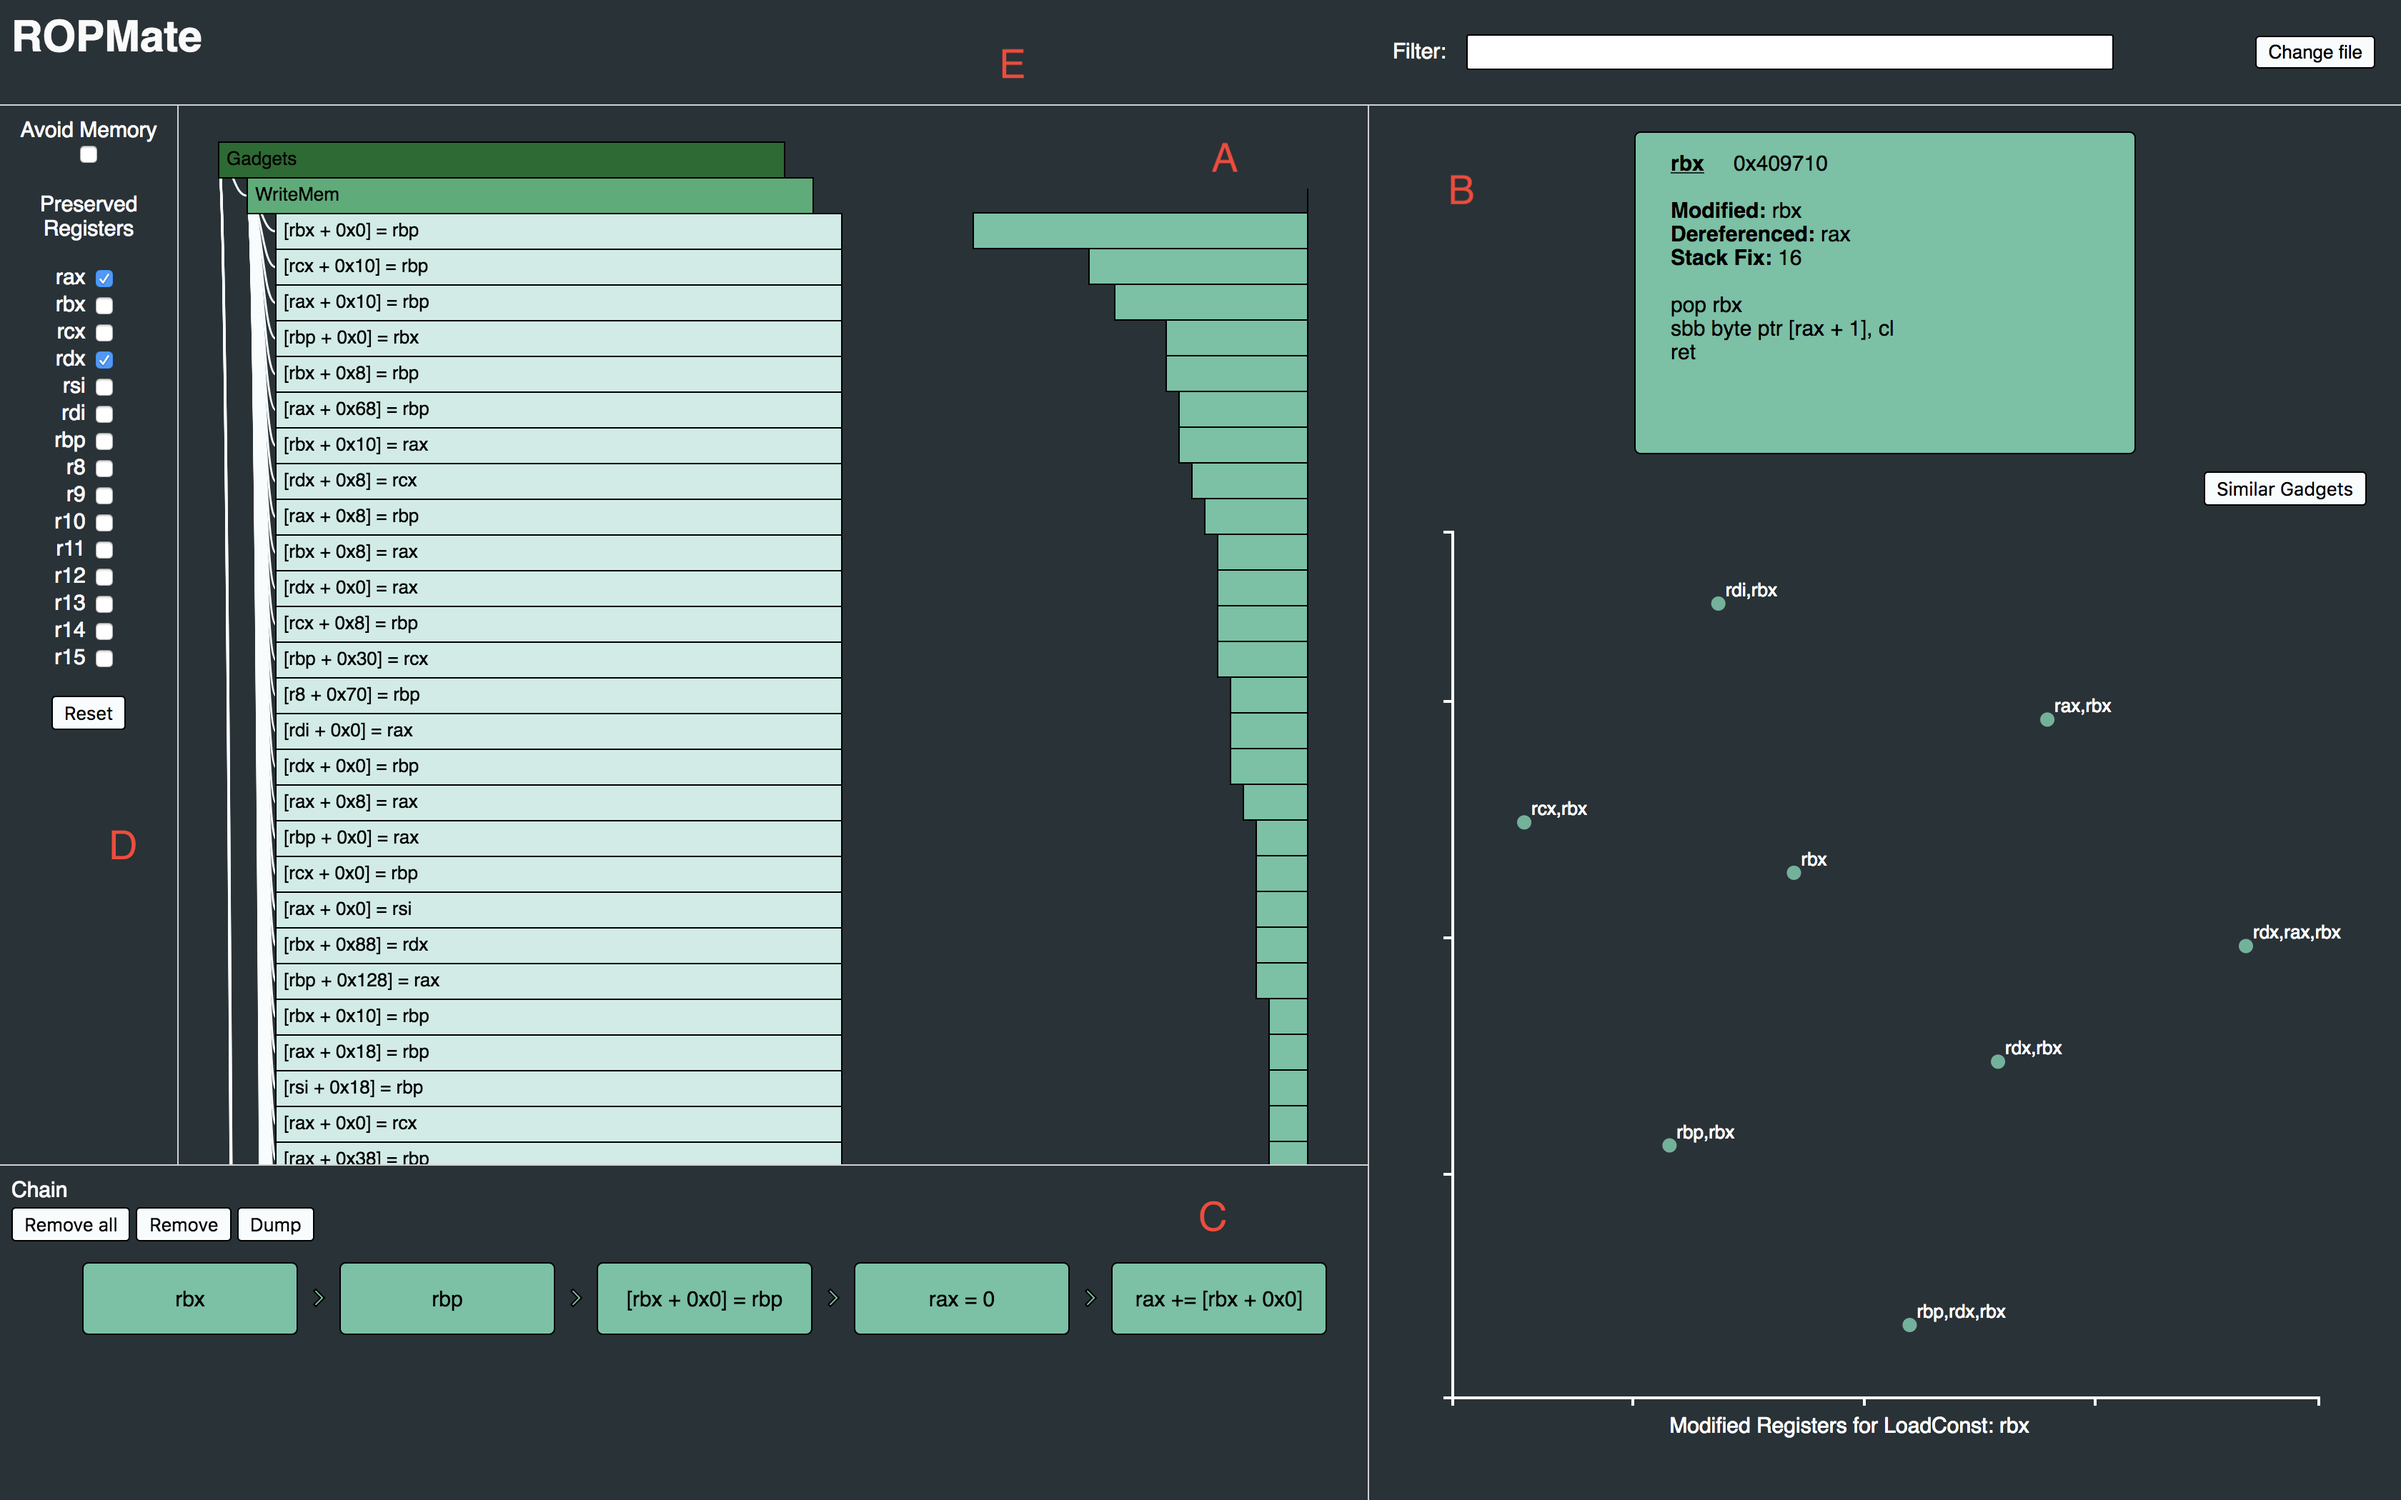
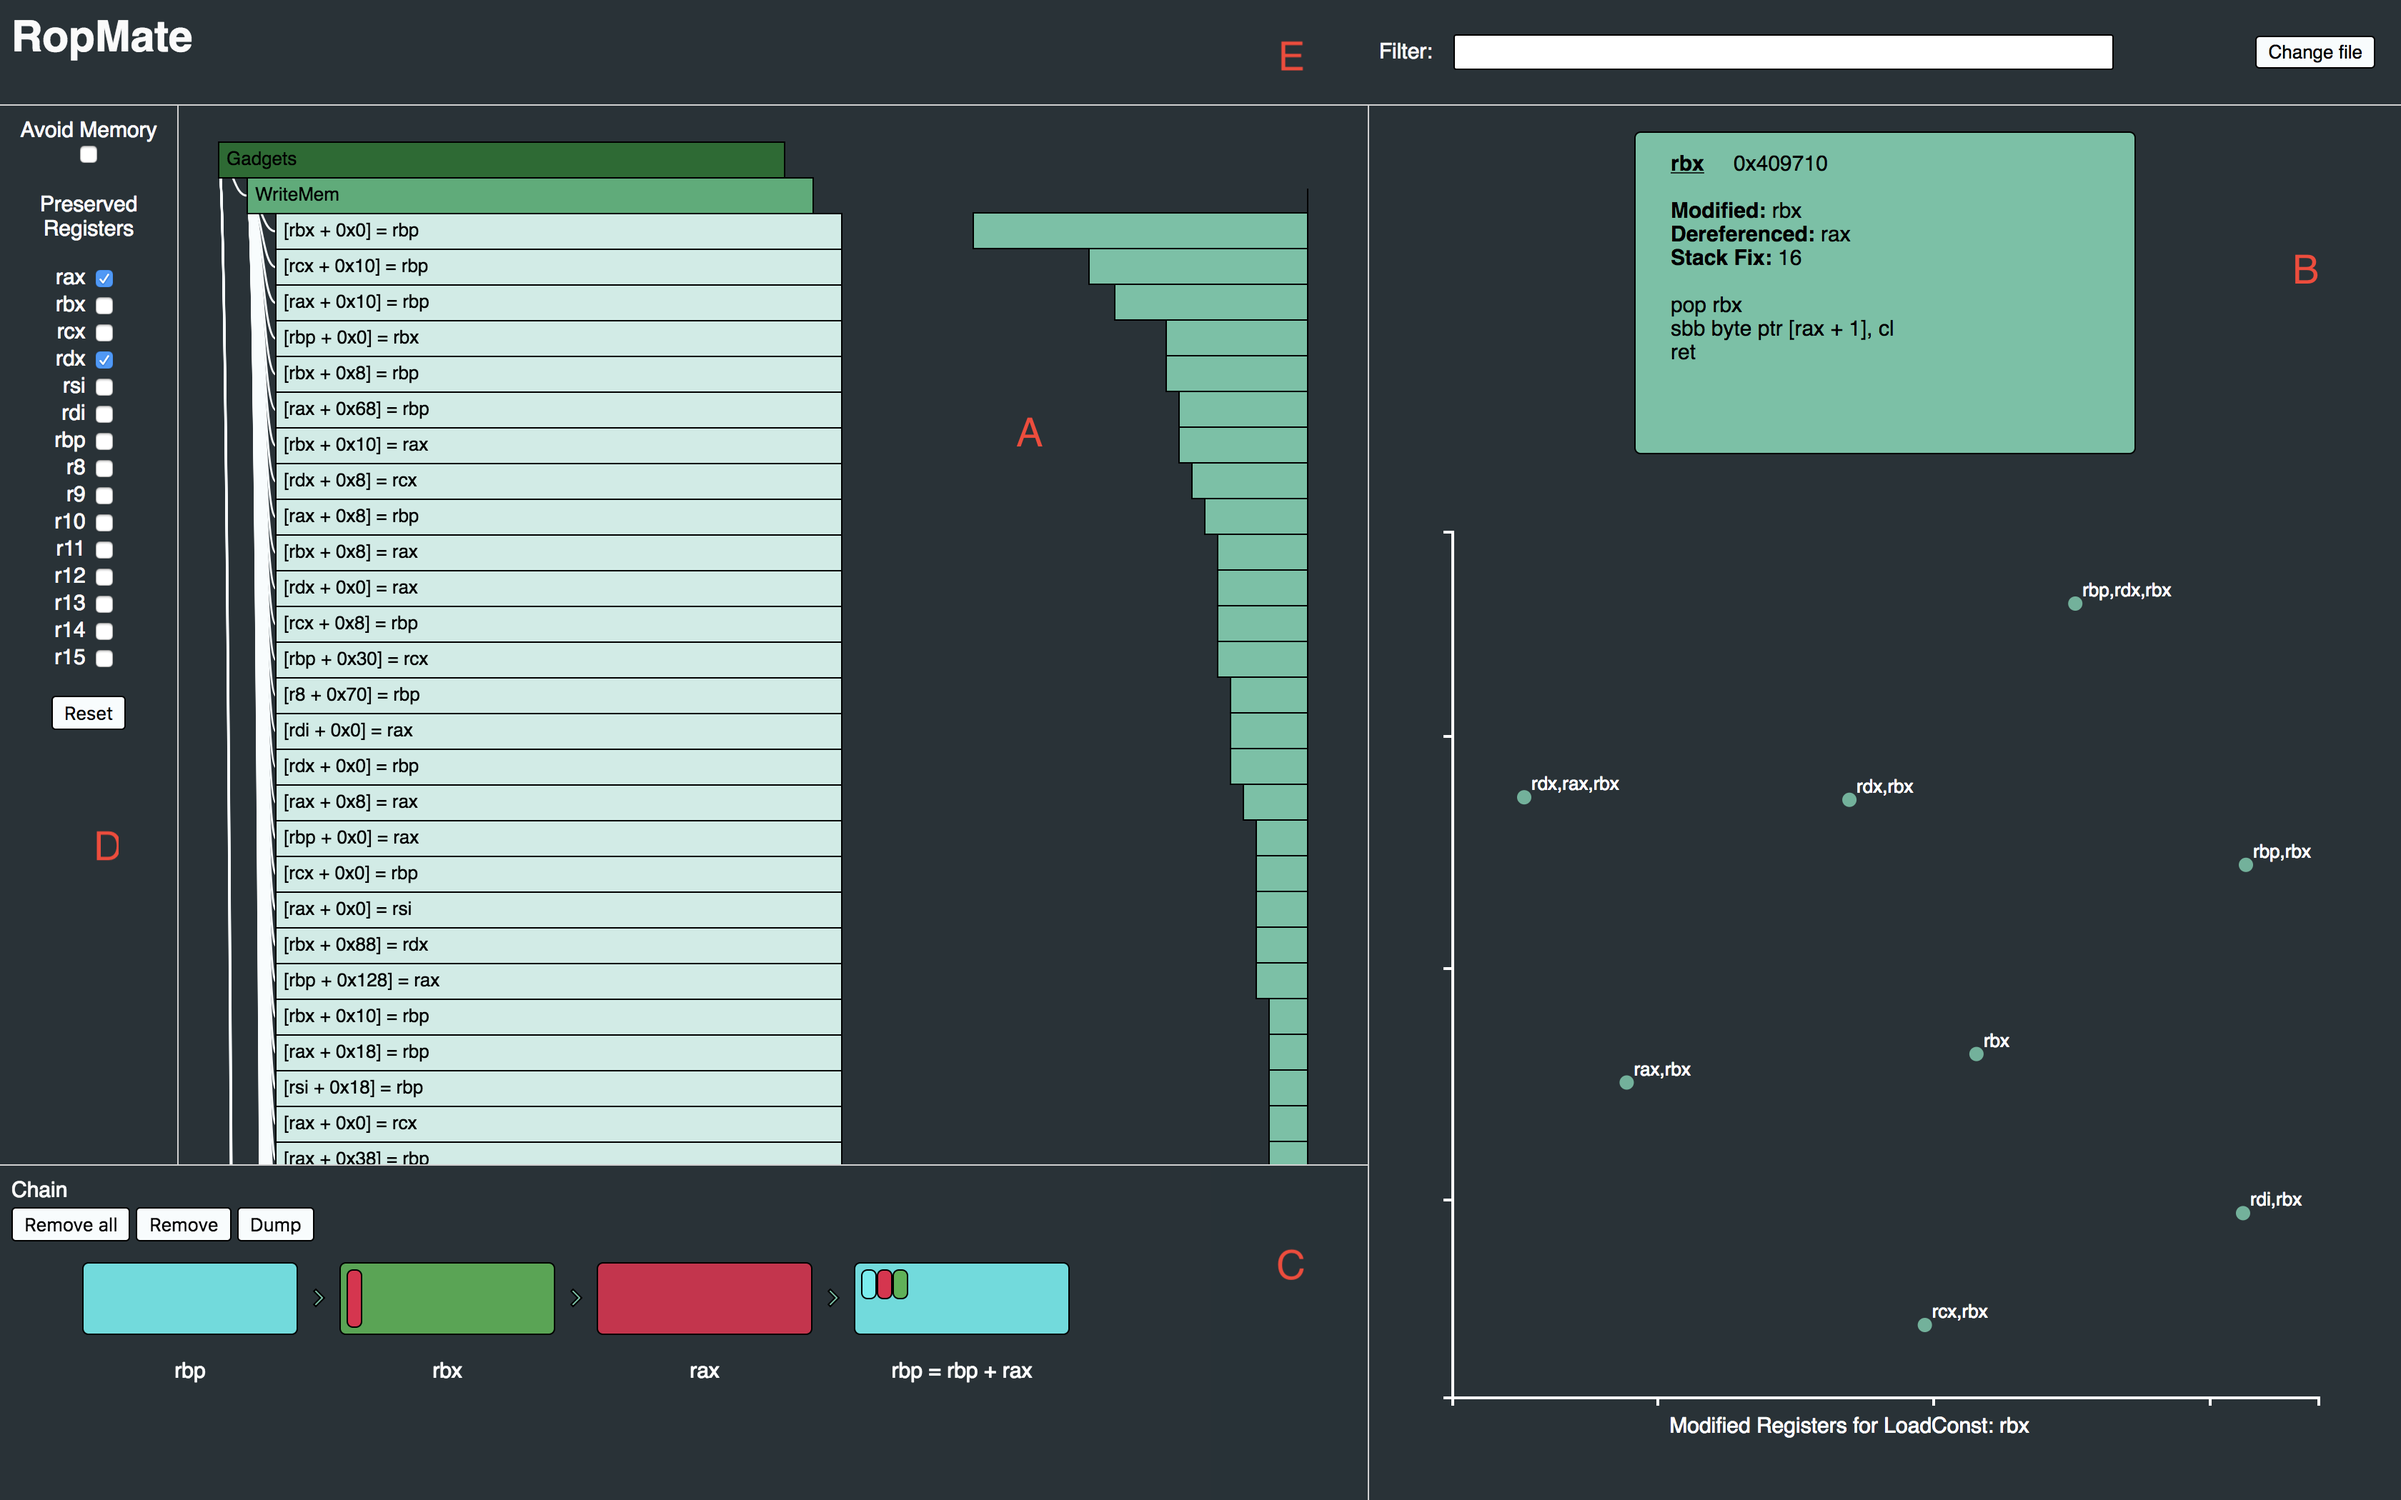
readme updated

diff --git a/README.md b/README.md
@@ -19,7 +19,10 @@ This allows the user to search for gadgets with the same effect but that clobber
 ### View C (Chain View)
 The chain view presents the current state of the builded chain. Adding a gadget to the chain will trigger the recomputation for the registers the user has successfully set with the chain, and, by default, the view of the whole gadgets will display only the gadgets safe with respect to modified registers, that the user can choose.
 
-It offers the possibility to move gadgets in the chain by dragging and dropping, and to remove them. Once the user is happy with the built chain clicking {\tt Dump} the system will generate a python script to integrate with current exploit technologies that will generate the byte-code of the chain.
+Each gadget in the chain has a unique color based on the register it semantically sets.
+Additionally, for every gadget his dependencies are computed, and a slot on each gadget is displayed with the colors matching the register it depends on. The lenght of the slot encodes if the dependency is satisfied and set (short) or not (long) by previous gadgets. A dependency is a register that must be properly set to execute the gadget correctly, as a dereferenced or read register.
+
+The chain view offers the possibility to move gadgets in the chain by dragging and dropping, and to remove them. Once the user is happy with the built chain clicking Dump the system will generate a python script to integrate with current exploit technologies that will generate the byte-code of the chain.
 
 ### View D (Control Panel)
 
